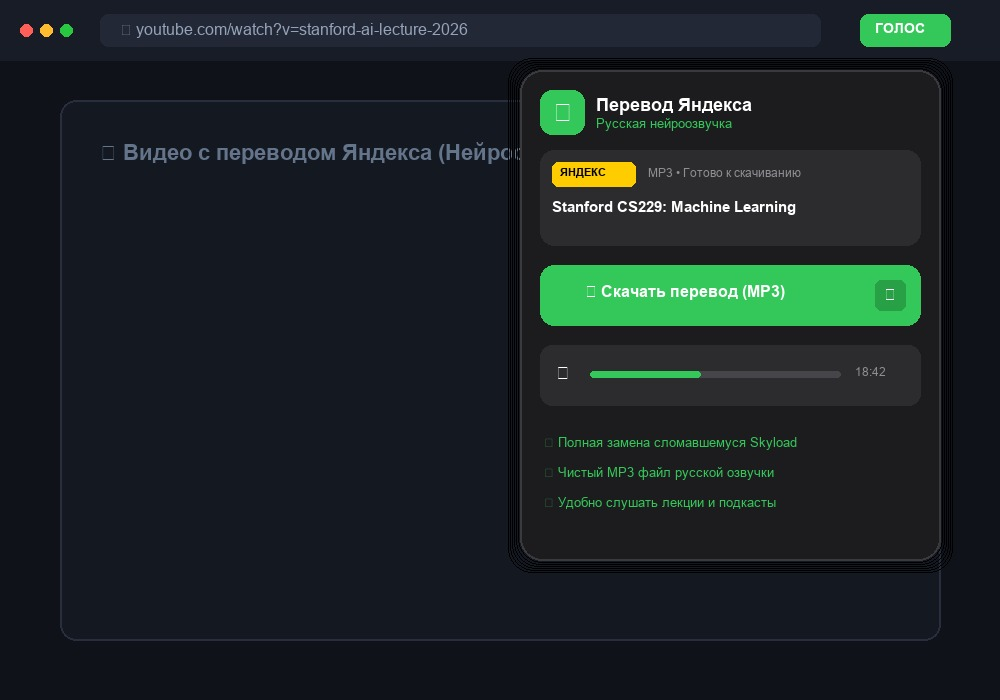
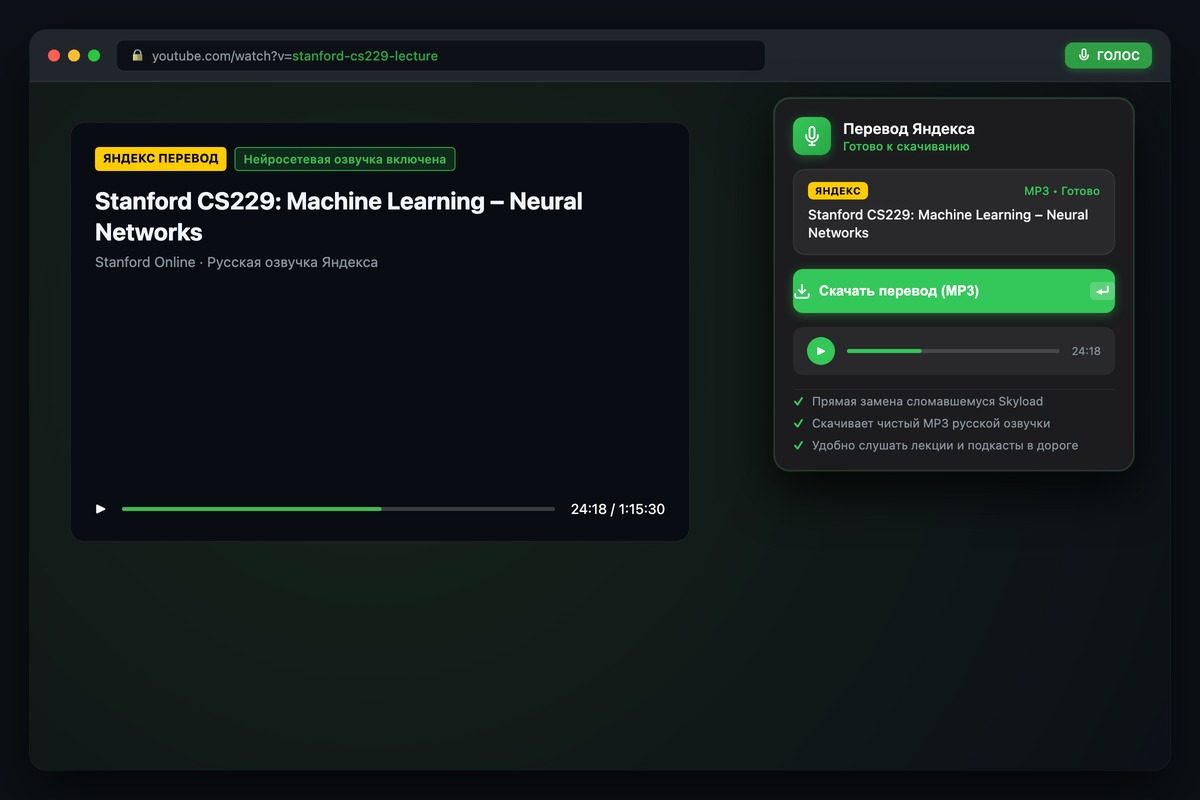
feat(audio-tools): replace covers and screenshots with Apple 3D render and Chrome headless mockups, update catalog card

Changed region(s): [[0.0, 0.0, 0.961, 0.6], [0.093, 0.6, 0.806, 0.84]]

diff --git a/audio-tools/index.html b/audio-tools/index.html
@@ -174,6 +174,9 @@
         <a class="btn btn-primary" href="#tools">Выбрать расширение</a>
         <a class="btn btn-ghost" href="#install">Инструкция по установке</a>
       </div>
+      <div style="margin-top: 32px; max-width: 560px; border-radius: var(--radius-lg); overflow: hidden; border: 1px solid var(--line); box-shadow: 0 12px 36px rgba(0,0,0,0.15);">
+        <img src="./assets/cover-3d.jpg" alt="AudioTools Pro 3D Витрина" style="width: 100%; display: block;">
+      </div>
       <p class="small muted" style="margin-top: 20px;">
         Работают локально в браузере. Без рекламы, без ожидания и без сторонних вирусов.
       </p>
@@ -193,7 +196,7 @@
         <article class="tool-card">
           <div>
             <div class="tool-head">
-              <div class="tool-icon icon-red">🎙</div>
+              <div class="tool-icon icon-red"><svg width="22" height="22" viewBox="0 0 24 24" fill="none" stroke="currentColor" stroke-width="2"><path d="M12 2a3 3 0 0 0-3 3v7a3 3 0 0 0 6 0V5a3 3 0 0 0-3-3z"/><path d="M19 10v2a7 7 0 0 1-14 0v-2"/><line x1="12" y1="19" x2="12" y2="23"/><line x1="8" y1="23" x2="16" y2="23"/></svg></div>
               <div class="tool-title">
                 <h2>Скачивание перевода Яндекса</h2>
                 <p>Нейросетевая озвучка · 1 клик</p>
@@ -203,10 +206,10 @@
               <img src="./assets/preview-yandex-voiceover.jpg" alt="Интерфейс скачивания перевода Яндекса" style="width: 100%; display: block; aspect-ratio: 10/7; object-fit: cover;">
             </div>
             <ul class="feature-list">
-              <li><span class="check-icon">✓</span> <b>Замена Skyload:</b> работает сразу после поломки старых расширений</li>
-              <li><span class="check-icon">✓</span> <b>1 клик:</b> перехватывает русскую аудиодорожку при просмотре</li>
-              <li><span class="check-icon">✓</span> <b>Готовый MP3:</b> открывается на любом iPhone, Android или автомагнитоле</li>
-              <li><span class="check-icon">✓</span> <b>Минимализм Apple:</b> строгий компактный вид, поддержка клавиши Enter</li>
+              <li><span class="check-icon"><svg width="12" height="12" viewBox="0 0 16 16" fill="none" style="display:inline-block;vertical-align:-1px;"><path d="M3 8.5l3.2 3L13 4.5" stroke="#137333" stroke-width="2.2" stroke-linecap="round"/></svg></span> <b>Замена Skyload:</b> работает сразу после поломки старых расширений</li>
+              <li><span class="check-icon"><svg width="12" height="12" viewBox="0 0 16 16" fill="none" style="display:inline-block;vertical-align:-1px;"><path d="M3 8.5l3.2 3L13 4.5" stroke="#137333" stroke-width="2.2" stroke-linecap="round"/></svg></span> <b>1 клик:</b> перехватывает русскую аудиодорожку при просмотре</li>
+              <li><span class="check-icon"><svg width="12" height="12" viewBox="0 0 16 16" fill="none" style="display:inline-block;vertical-align:-1px;"><path d="M3 8.5l3.2 3L13 4.5" stroke="#137333" stroke-width="2.2" stroke-linecap="round"/></svg></span> <b>Готовый MP3:</b> открывается на любом iPhone, Android или автомагнитоле</li>
+              <li><span class="check-icon"><svg width="12" height="12" viewBox="0 0 16 16" fill="none" style="display:inline-block;vertical-align:-1px;"><path d="M3 8.5l3.2 3L13 4.5" stroke="#137333" stroke-width="2.2" stroke-linecap="round"/></svg></span> <b>Минимализм Apple:</b> строгий компактный вид, поддержка клавиши Enter</li>
             </ul>
           </div>
           <div style="margin-top: 18px;">
@@ -220,7 +223,7 @@
         <article class="tool-card">
           <div>
             <div class="tool-head">
-              <div class="tool-icon icon-blue">🎵</div>
+              <div class="tool-icon icon-blue"><svg width="22" height="22" viewBox="0 0 24 24" fill="none" stroke="currentColor" stroke-width="2"><path d="M9 18V5l12-2v13"/><circle cx="6" cy="18" r="3"/><circle cx="18" cy="16" r="3"/></svg></div>
               <div class="tool-title">
                 <h2>Скачивание звука видео (MP3)</h2>
                 <p>YouTube &amp; VK · Чистый звук</p>
@@ -230,10 +233,10 @@
               <img src="./assets/preview-youtube-audio.jpg" alt="Интерфейс скачивания звука видео YouTube" style="width: 100%; display: block; aspect-ratio: 10/7; object-fit: cover;">
             </div>
             <ul class="feature-list">
-              <li><span class="check-icon">✓</span> <b>Полный трек:</b> собирает всё аудио целиком, а не секундный фрагмент</li>
-              <li><span class="check-icon">✓</span> <b>Без захламления ПК:</b> конвертация онлайн, без установки ffmpeg</li>
-              <li><span class="check-icon">✓</span> <b>Без спама:</b> никаких всплывающих окон, баннеров и капч</li>
-              <li><span class="check-icon">✓</span> <b>Быстро:</b> сохранение в один клик прямо из верхней панели</li>
+              <li><span class="check-icon"><svg width="12" height="12" viewBox="0 0 16 16" fill="none" style="display:inline-block;vertical-align:-1px;"><path d="M3 8.5l3.2 3L13 4.5" stroke="#137333" stroke-width="2.2" stroke-linecap="round"/></svg></span> <b>Полный трек:</b> собирает всё аудио целиком, а не секундный фрагмент</li>
+              <li><span class="check-icon"><svg width="12" height="12" viewBox="0 0 16 16" fill="none" style="display:inline-block;vertical-align:-1px;"><path d="M3 8.5l3.2 3L13 4.5" stroke="#137333" stroke-width="2.2" stroke-linecap="round"/></svg></span> <b>Без захламления ПК:</b> конвертация онлайн, без установки ffmpeg</li>
+              <li><span class="check-icon"><svg width="12" height="12" viewBox="0 0 16 16" fill="none" style="display:inline-block;vertical-align:-1px;"><path d="M3 8.5l3.2 3L13 4.5" stroke="#137333" stroke-width="2.2" stroke-linecap="round"/></svg></span> <b>Без спама:</b> никаких всплывающих окон, баннеров и капч</li>
+              <li><span class="check-icon"><svg width="12" height="12" viewBox="0 0 16 16" fill="none" style="display:inline-block;vertical-align:-1px;"><path d="M3 8.5l3.2 3L13 4.5" stroke="#137333" stroke-width="2.2" stroke-linecap="round"/></svg></span> <b>Быстро:</b> сохранение в один клик прямо из верхней панели</li>
             </ul>
           </div>
           <div style="margin-top: 18px;">
@@ -262,10 +265,10 @@
             <div class="plan-price">0 ₽ <small>/ навсегда</small></div>
             <p class="small muted">Идеально, чтобы попробовать и убедиться, что всё работает.</p>
             <ul class="feature-list" style="margin-top: 18px;">
-              <li><span class="check-icon">✓</span> До 3 скачиваний в день</li>
-              <li><span class="check-icon">✓</span> Полный доступ ко всем функциям</li>
-              <li><span class="check-icon">✓</span> Формат MP3 высокого качества</li>
-              <li><span class="check-icon">✓</span> Без регистрации и аккаунтов</li>
+              <li><span class="check-icon"><svg width="12" height="12" viewBox="0 0 16 16" fill="none" style="display:inline-block;vertical-align:-1px;"><path d="M3 8.5l3.2 3L13 4.5" stroke="#137333" stroke-width="2.2" stroke-linecap="round"/></svg></span> До 3 скачиваний в день</li>
+              <li><span class="check-icon"><svg width="12" height="12" viewBox="0 0 16 16" fill="none" style="display:inline-block;vertical-align:-1px;"><path d="M3 8.5l3.2 3L13 4.5" stroke="#137333" stroke-width="2.2" stroke-linecap="round"/></svg></span> Полный доступ ко всем функциям</li>
+              <li><span class="check-icon"><svg width="12" height="12" viewBox="0 0 16 16" fill="none" style="display:inline-block;vertical-align:-1px;"><path d="M3 8.5l3.2 3L13 4.5" stroke="#137333" stroke-width="2.2" stroke-linecap="round"/></svg></span> Формат MP3 высокого качества</li>
+              <li><span class="check-icon"><svg width="12" height="12" viewBox="0 0 16 16" fill="none" style="display:inline-block;vertical-align:-1px;"><path d="M3 8.5l3.2 3L13 4.5" stroke="#137333" stroke-width="2.2" stroke-linecap="round"/></svg></span> Без регистрации и аккаунтов</li>
             </ul>
           </div>
           <div style="margin-top: 24px;">
@@ -276,14 +279,14 @@
         <!-- Pro Tier -->
         <div class="plan-card featured">
           <div>
-            <span class="badge" style="background: var(--accent-soft); color: var(--accent); border-color: var(--accent);">👑 PRO БЕЗЛИМИТ</span>
+            <span class="badge" style="background: var(--accent-soft); color: var(--accent); border-color: var(--accent);">PRO БЕЗЛИМИТ</span>
             <div class="plan-price">299 ₽ <small>или 3 USDC (разово)</small></div>
             <p class="small muted">Полный безлимит навсегда без подписок и скрытых платежей.</p>
             <ul class="feature-list" style="margin-top: 18px;">
-              <li><span class="check-icon">✓</span> <b>Неограниченное число скачиваний</b> в день</li>
-              <li><span class="check-icon">✓</span> Приоритетная скорость онлайн-конвертации</li>
-              <li><span class="check-icon">✓</span> Вечная лицензия на все обновления</li>
-              <li><span class="check-icon">✓</span> Мгновенная разблокировка без ожидания</li>
+              <li><span class="check-icon"><svg width="12" height="12" viewBox="0 0 16 16" fill="none" style="display:inline-block;vertical-align:-1px;"><path d="M3 8.5l3.2 3L13 4.5" stroke="#137333" stroke-width="2.2" stroke-linecap="round"/></svg></span> <b>Неограниченное число скачиваний</b> в день</li>
+              <li><span class="check-icon"><svg width="12" height="12" viewBox="0 0 16 16" fill="none" style="display:inline-block;vertical-align:-1px;"><path d="M3 8.5l3.2 3L13 4.5" stroke="#137333" stroke-width="2.2" stroke-linecap="round"/></svg></span> Приоритетная скорость онлайн-конвертации</li>
+              <li><span class="check-icon"><svg width="12" height="12" viewBox="0 0 16 16" fill="none" style="display:inline-block;vertical-align:-1px;"><path d="M3 8.5l3.2 3L13 4.5" stroke="#137333" stroke-width="2.2" stroke-linecap="round"/></svg></span> Вечная лицензия на все обновления</li>
+              <li><span class="check-icon"><svg width="12" height="12" viewBox="0 0 16 16" fill="none" style="display:inline-block;vertical-align:-1px;"><path d="M3 8.5l3.2 3L13 4.5" stroke="#137333" stroke-width="2.2" stroke-linecap="round"/></svg></span> Мгновенная разблокировка без ожидания</li>
             </ul>
           </div>
           <div style="margin-top: 24px; display: flex; flex-direction: column; gap: 10px;">
@@ -292,10 +295,10 @@
             </a>
             <div style="display: flex; gap: 8px;">
               <a class="btn btn-ghost" style="flex: 1; text-align: center; font-size: 13px; text-decoration: none;" href="https://t.me/Shop010_bot?start=prod_51" target="_blank" rel="noopener">
-                ⭐ В Telegram
+                В Telegram
               </a>
               <button class="btn btn-ghost" style="flex: 1; font-size: 13px;" type="button" data-unlock data-product="audiotools" data-price="3" data-name="AudioTools Pro" data-sub="Безлимитное скачивание MP3 и закадрового перевода Яндекса">
-                Web3 (3 USDC)
+                1-Click Web3 (3 USDC)
               </button>
             </div>
           </div>
@@ -344,13 +347,13 @@
           <!-- 3. Web3 Base USDC -->
           <div style="border: 1px solid var(--line); background: var(--bg); border-radius: var(--radius); padding: 20px; display: flex; flex-direction: column; justify-content: space-between;">
             <div>
-              <b style="font-size: 15px;">3. Криптовалюта Web3 (3 USDC):</b>
+              <b style="font-size: 15px;">3. Криптовалюта 1-Click Web3 (3 USDC):</b>
               <p class="small muted" style="margin: 8px 0 16px; line-height: 1.5;">
                 Оплата в сети Base. Работает в 1 клик при наличии расширения <b>MetaMask</b> или <b>Rabby</b> в браузере. Либо ручной перевод по адресу.
               </p>
             </div>
             <button class="btn btn-ghost" type="button" style="width: 100%;" data-unlock data-product="audiotools" data-price="3" data-name="AudioTools Pro" data-sub="Безлимитное скачивание MP3 и закадрового перевода Яндекса">
-              Открыть Web3 (3 USDC)
+              Открыть 1-Click Web3 (3 USDC)
             </button>
           </div>
         </div>

diff --git a/index.html b/index.html
@@ -95,20 +95,20 @@
               </svg>
             </span>
             <div>
-              <div class="product-title"><h3>AudioTools Studio</h3></div>
-              <p class="product-kicker">YouTube &amp; Яндекс Перевод · 1 клик</p>
+              <div class="product-title"><h3>2 Расширения: MP3 &amp; Перевод</h3></div>
+              <p class="product-kicker">Для Chrome и Яндекс Браузера · 1 клик</p>
             </div>
           </div>
-          <p class="benefit">Скачивание русской озвучки нейроперевода Яндекса (замена Skyload) и сохранение чистого MP3 с YouTube.</p>
-          <p class="detail">Работает в один клик прямо из верхней панели браузера без рекламы, капч и установки тяжелых утилит вроде ffmpeg.</p>
+          <p class="benefit">Два расширения: скачивание русской озвучки перевода Яндекса (замена сломавшемуся Skyload) и сохранение звука с YouTube в MP3.</p>
+          <p class="detail">Работают локально прямо из панели браузера в 1 клик без рекламы, капч и без установки ffmpeg.</p>
           <div class="product-meta">
-            <span class="tier">Free: <b>3 трека/день</b></span>
+            <span class="tier">Free: <b>3 скачивания/день</b></span>
             <span class="sep">·</span>
-            <span class="tier">Pro: <b>$3 / 299 ₽</b></span>
+            <span class="tier">Pro: <b>299 ₽ / $3 (Безлимит)</b></span>
           </div>
           <div class="product-actions">
-            <a class="btn btn-primary btn-sm" href="./audio-tools/">Открыть бесплатно</a>
-            <a class="pro-link" href="./audio-tools/#pricing">Что даёт Pro</a>
+            <a class="btn btn-primary btn-sm" href="./audio-tools/">Смотреть расширения</a>
+            <a class="pro-link" href="https://plati.market/itm/6326936" target="_blank" rel="noopener">Купить Pro (299 ₽)</a>
           </div>
         </article>
 
